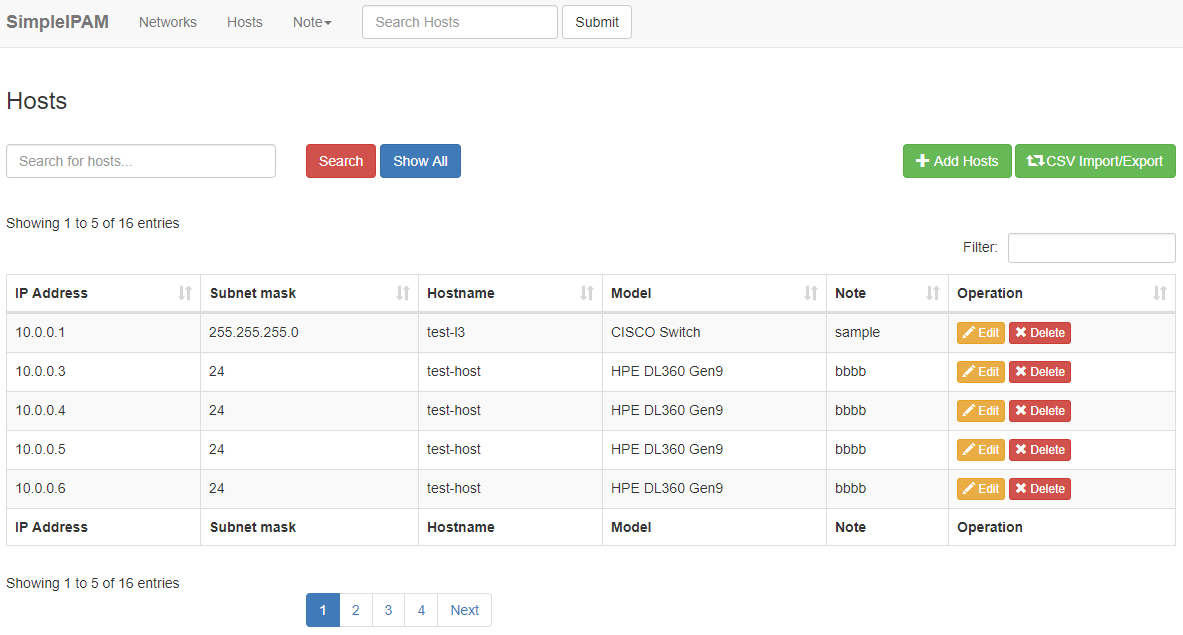
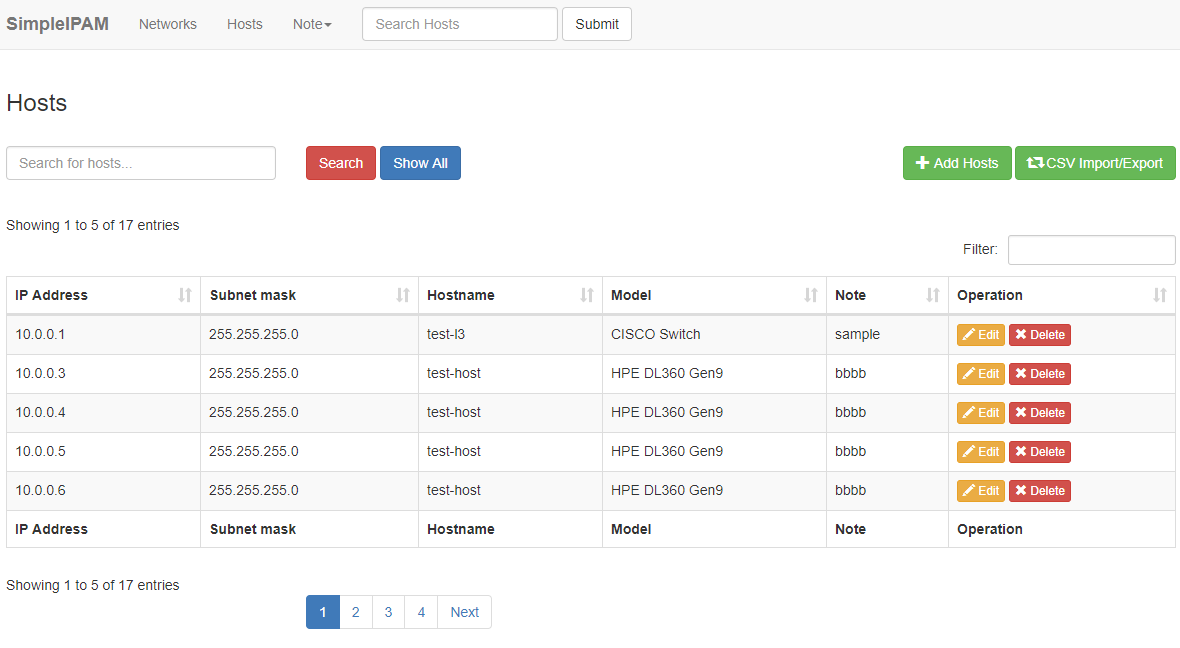
change hosts'cidr to subnet mask

diff --git a/application/controllers/Hosts.php b/application/controllers/Hosts.php
@@ -148,7 +148,7 @@ class Hosts extends CI_Controller {
         $this->_validate();
 		$data = array(
 				'ip_address' => $this->input->post('ip_address'),
-				'cidr' => $this->input->post('cidr'),
+				'subnet_mask' => $this->input->post('subnet_mask'),
 				'hostname' => $this->input->post('hostname'),
 				'model' => $this->input->post('model'),
 				'note' => $this->input->post('note'),
@@ -170,7 +170,7 @@ class Hosts extends CI_Controller {
     $this->_validate();
 	$data = array(
 		'ip_address' => $this->input->post('ip_address'),
-		'cidr' => $this->input->post('cidr'),
+		'subnet_mask' => $this->input->post('subnet_mask'),
 		'hostname' => $this->input->post('hostname'),
 		'model' => $this->input->post('model'),
 		'note' => $this->input->post('note'),
@@ -203,25 +203,27 @@ class Hosts extends CI_Controller {
         }
 
 
-        $cidr=$this->input->post('cidr');
-        if (!is_numeric($cidr))
+        $subnet_mask=$this->input->post('subnet_mask');
+        /*
+        if (!is_numeric($subnet_mask))
         {
-            $data['inputerror'][] = 'cidr';
-            $data['error_string'][] = 'Cidr must be number';
+            $data['inputerror'][] = 'subnet_mask';
+            $data['error_string'][] = 'Subnet mask must be number';
             $data['status'] = FALSE;
         }
-        if($cidr == '')
+        */
+        if($subnet_mask == '')
         {
-            $data['inputerror'][] = 'cidr';
-            $data['error_string'][] = 'Cidr is required';
+            $data['inputerror'][] = 'subnet_mask';
+            $data['error_string'][] = 'Subnet mask is required';
             $data['status'] = FALSE;
         }
 
         /* 
-        if($this->input->post('cidr') == '')
+        if($this->input->post('subnet_mask') == '')
         {
-            $data['inputerror'][] = 'cidr';
-            $data['error_string'][] = 'Cidr is required';
+            $data['inputerror'][] = 'subnet_mask';
+            $data['error_string'][] = 'Subnet mask is required';
             $data['status'] = FALSE;
         }
         */
@@ -263,7 +265,7 @@ class Hosts extends CI_Controller {
 		$delimiter = ",";
         $newline = "\r\n";
         $sql_order = " order by CAST(substr(trim(ip_address),1,instr(trim(ip_address),'.')-1) AS INTEGER), CAST(substr(substr(trim(ip_address),length(substr(trim(ip_address),1,instr(trim(ip_address),'.')))+1,length(ip_address)) ,1, instr(substr(trim(ip_address),length(substr(trim(ip_address),1,instr(trim(ip_address),'.')))+1,length(ip_address)),'.')-1) AS INTEGER), CAST(substr(substr(trim(ip_address),length(substr(substr(trim(ip_address),length(substr(trim(ip_address),1,instr(trim(ip_address),'.')))+1,length(ip_address)) ,1, instr(substr(trim(ip_address),length(substr(trim(ip_address),1,instr(trim(ip_address),'.')))+1,length(ip_address)),'.')))+length(substr(trim(ip_address),1,instr(trim(ip_address),'.')))+1,length(ip_address)) ,1, instr(substr(trim(ip_address),length(substr(substr(trim(ip_address),length(substr(trim(ip_address),1,instr(trim(ip_address),'.')))+1,length(ip_address)) ,1, instr(substr(trim(ip_address),length(substr(trim(ip_address),1,instr(trim(ip_address),'.')))+1,length(ip_address)),'.')))+length(substr(trim(ip_address),1,instr(trim(ip_address),'.')))+1,length(ip_address)),'.')-1) AS INTEGER), CAST(substr(trim(ip_address),length(substr(substr(trim(ip_address),length(substr(substr(trim(ip_address),length(substr(trim(ip_address),1,instr(trim(ip_address),'.')))+1,length(ip_address)) ,1, instr(substr(trim(ip_address),length(substr(trim(ip_address),1,instr(trim(ip_address),'.')))+1,length(ip_address)),'.')))+length(substr(trim(ip_address),1,instr(trim(ip_address),'.')))+1,length(ip_address)) ,1, instr(substr(trim(ip_address),length(substr(substr(trim(ip_address),length(substr(trim(ip_address),1,instr(trim(ip_address),'.')))+1,length(ip_address)) ,1, instr(substr(trim(ip_address),length(substr(trim(ip_address),1,instr(trim(ip_address),'.')))+1,length(ip_address)),'.')))+length(substr(trim(ip_address),1,instr(trim(ip_address),'.')))+1,length(ip_address)),'.')))+ length(substr(trim(ip_address),1,instr(trim(ip_address),'.')))+length(substr(substr(trim(ip_address),length(substr(trim(ip_address),1,instr(trim(ip_address),'.')))+1,length(ip_address)) ,1, instr(substr(trim(ip_address),length(substr(trim(ip_address),1,instr(trim(ip_address),'.')))+1,length(ip_address)),'.')))+1,length(trim(ip_address))) AS INTEGER) ";
-		$query = $this->db->query('SELECT ip_address, cidr, hostname, model, note FROM hosts WHERE 1'.$sql_order);
+		$query = $this->db->query('SELECT ip_address, subnet_mask, hostname, model, note FROM hosts WHERE 1'.$sql_order);
 		$this->load->dbutil();
 		$data = $this->dbutil->csv_from_result($query, $delimiter, $newline);
 		$this->load->helper('download');
@@ -298,7 +300,7 @@ class Hosts extends CI_Controller {
                 foreach ($csv_array as $row) {
                     $insert_data = array(
                         'ip_address'=>$row['ip_address'],
-                        'cidr'=>$row['cidr'],
+                        'subnet_mask'=>$row['subnet_mask'],
 						'hostname'=>$row['hostname'],
 						'model'=>$row['model'],
 						'note'=>$row['note'],

diff --git a/application/views/hosts_view.php b/application/views/hosts_view.php
@@ -47,7 +47,7 @@
          <?php foreach($hosts as $host): ?>
          <tr>
              <td><?php echo $host['ip_address']; ?></td>
-             <td><?php echo $host['cidr']; ?></td>
+             <td><?php echo $host['subnet_mask']; ?></td>
              <td><?php echo $host['hostname']; ?></td>
              <td><?php echo $host['model']; ?></td>
              <td><?php echo $host['note']; ?></td>
@@ -151,7 +151,7 @@
         {
             $('[name="id"]').val(data.id);
             $('[name="ip_address"]').val(data.ip_address);
-            $('[name="cidr"]').val(data.cidr);
+            $('[name="subnet_mask"]').val(data.subnet_mask);
             $('[name="hostname"]').val(data.hostname);
             $('[name="model"]').val(data.model);
             $('[name="note"]').val(data.note);
@@ -264,9 +264,9 @@
               </div>
             </div>
             <div class="form-group">
-              <label class="control-label col-md-3">CIDR</label>
+              <label class="control-label col-md-3">Subnet mask</label>
               <div class="col-md-6">
-                <input name="cidr" placeholder="24" class="form-control" type="text">
+                <input name="subnet_mask" placeholder="255.255.255.0" class="form-control" type="text">
                 <span class="help-block"></span>
               </div>
               <div class="col-md-3">

diff --git a/application/views/hosts_csv.php b/application/views/hosts_csv.php
@@ -41,7 +41,7 @@
 <div class="col-sm-6">
 <p>CSV Example</p>
 <pre>
-"networks","cidr","broadcast_address","vlan_id","note1","note2"
+"networks","subnet_mask","broadcast_address","vlan_id","note1","note2"
 "192.168.2.0","24","192.168.2.255","13","test","TokyoDC"
 "192.168.3.0","24","192.168.3.255","14","test","TokyoDC"
 </pre>
@@ -104,7 +104,7 @@
     <div class="col-sm-6">
 <p>CSV Example</p>
 <pre>
-"ip_address","cidr","hostname","model","note"
+"ip_address","subnet_mask","hostname","model","note"
 "10.0.0.1","255.255.255.0","test-l3","CISCO Switch","sample"
 "10.0.2.2","24","test-host","HPE DL360 Gen9","aaaaa"
 "10.0.0.3","24","test-host","HPE DL360 Gen9","bbbb"
